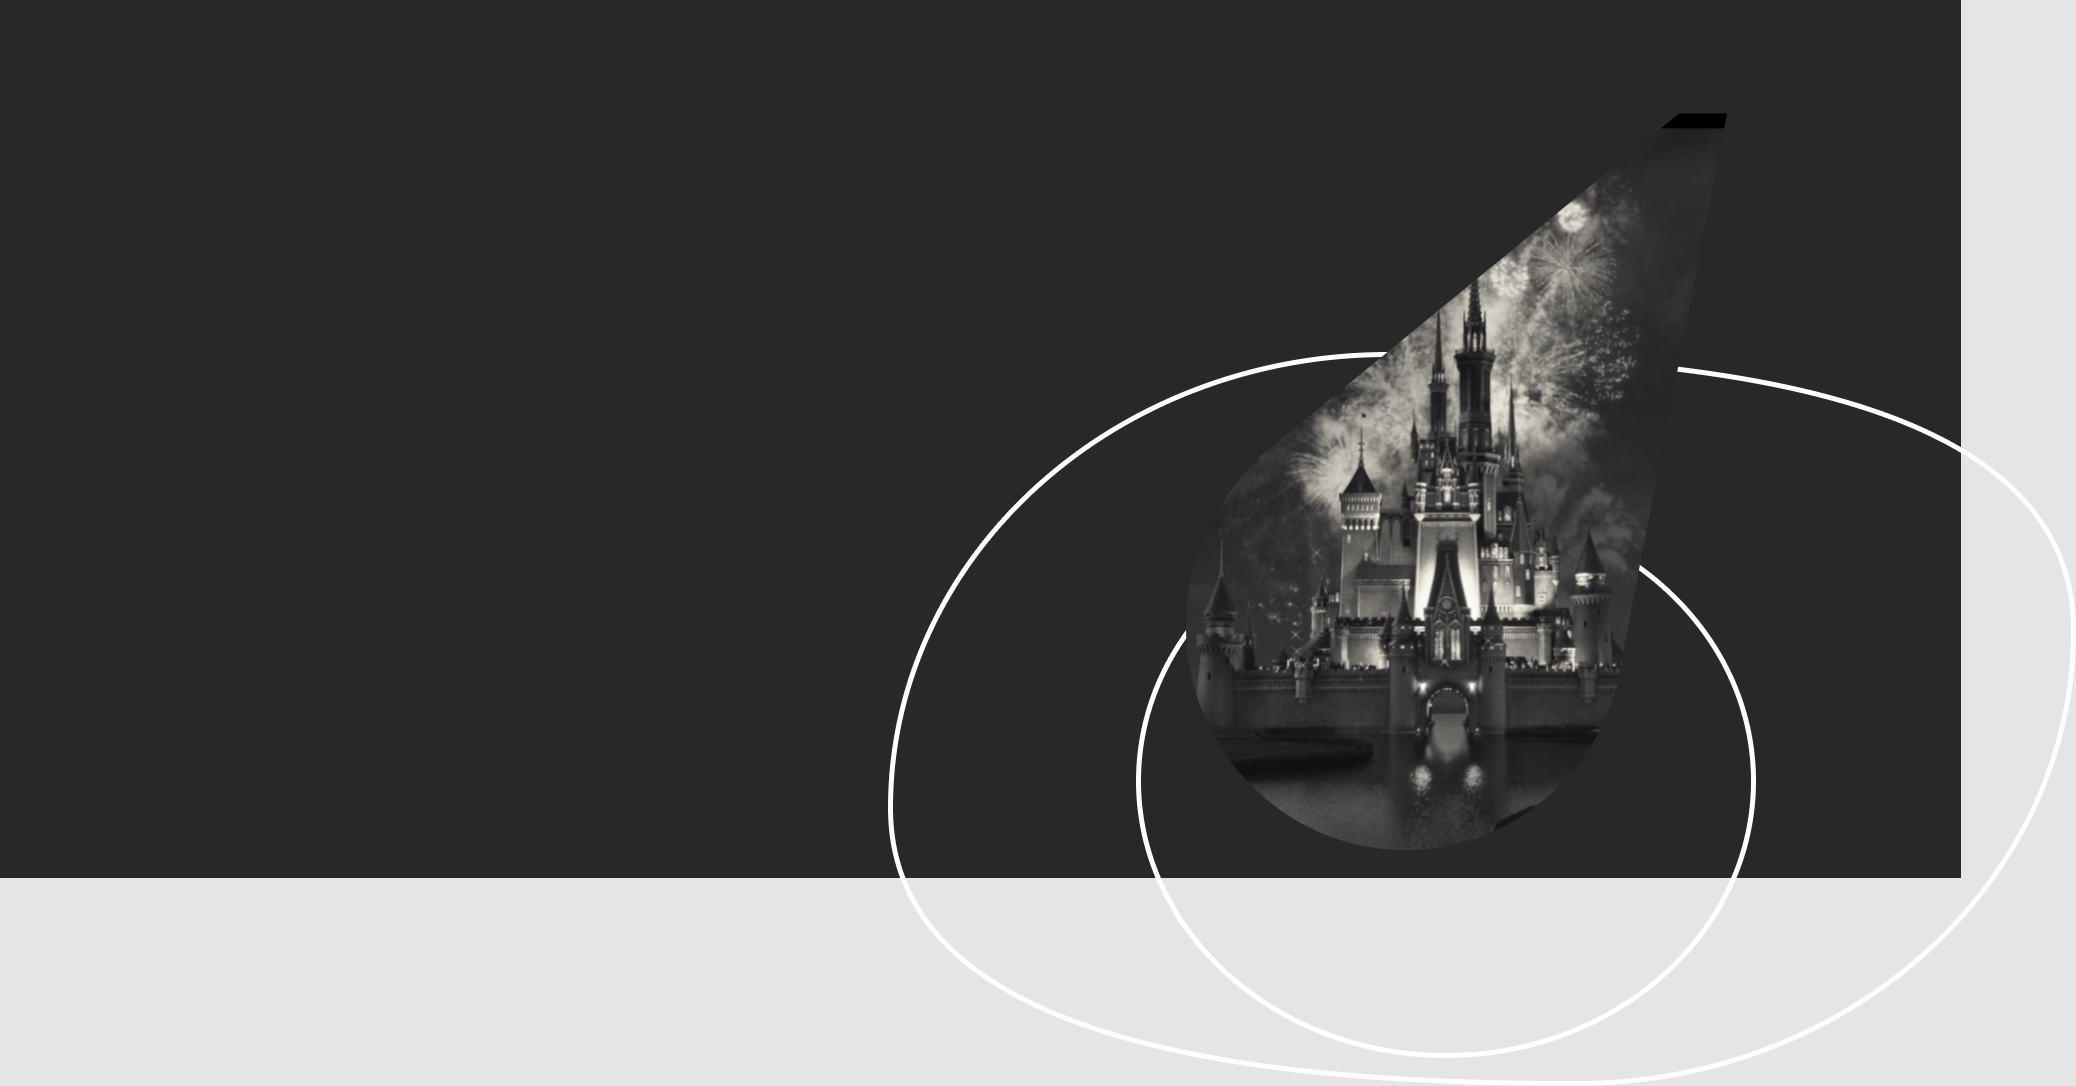
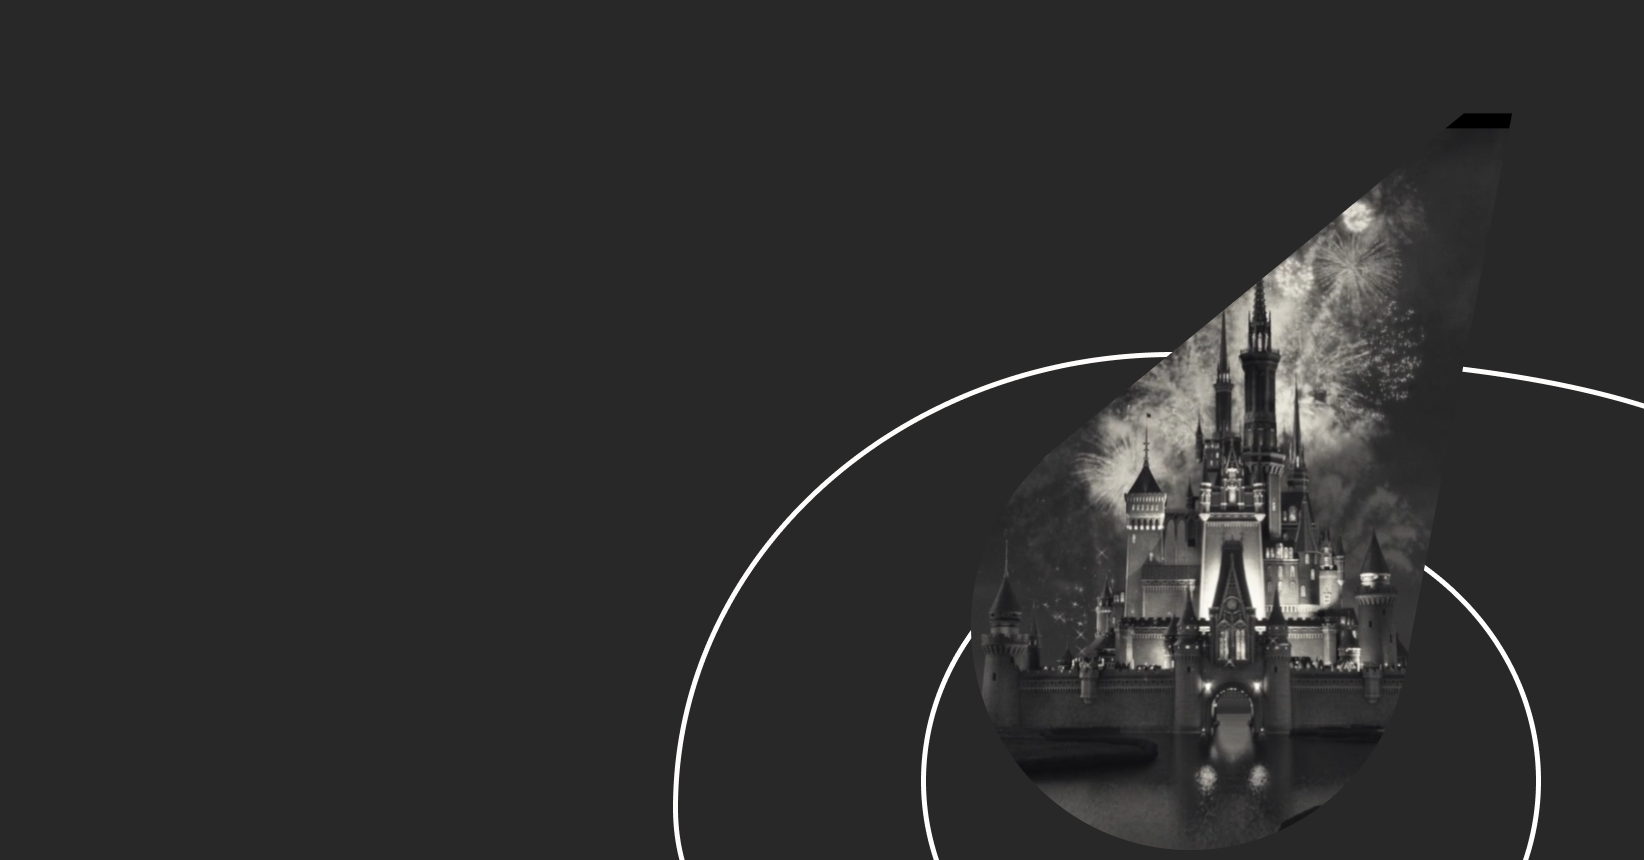
css

diff --git a/style.css b/style.css
@@ -1,6 +1,5 @@
 * body {
     box-sizing: border-box;
-    background: rgb(34, 34, 34);
     background-image:url(images/Rectangle\ 1.png);
     background-position:top;
     background-repeat: no-repeat;
@@ -52,10 +51,53 @@ margin-top:-50px;
 .osh {
     font-size:8rem;
     text-transform:uppercase;
-    margin-top:-50px;
+    margin-top:0px;
     color: white;
     margin-left:40px;
 }
 .too {
     color:white;
+}
+@media screen and (
+max-width:500px) {
+    * {
+background-image:url(Images/desnip\ castle\ 2.png);
+    }
+    header a {
+        font-size:5px;
+        text-decoration:none;
+        color: white;
+        text-transform:uppercase;
+    }
+    ul,
+    li,
+    a {
+        margin-bottom:0px;
+        margin-right:8px;
+    }
+    .thumb {
+        font-size:20px;
+    }
+    .insta {
+        margin: auto;
+        margin-right:10px;
+        margin-top:16px;
+    }
+    .osh {
+        font-size:4rem;
+        text-transform:uppercase;
+        margin-top:100px;
+        color: white;
+        margin-left:40px;
+    }
+
+    .history {
+        display: flex;
+        margin-left:40px;
+        margin-top:-50px;
+        }
+        .spin {
+            font-size:10px;
+            margin-top:10px;
+        }
 }
